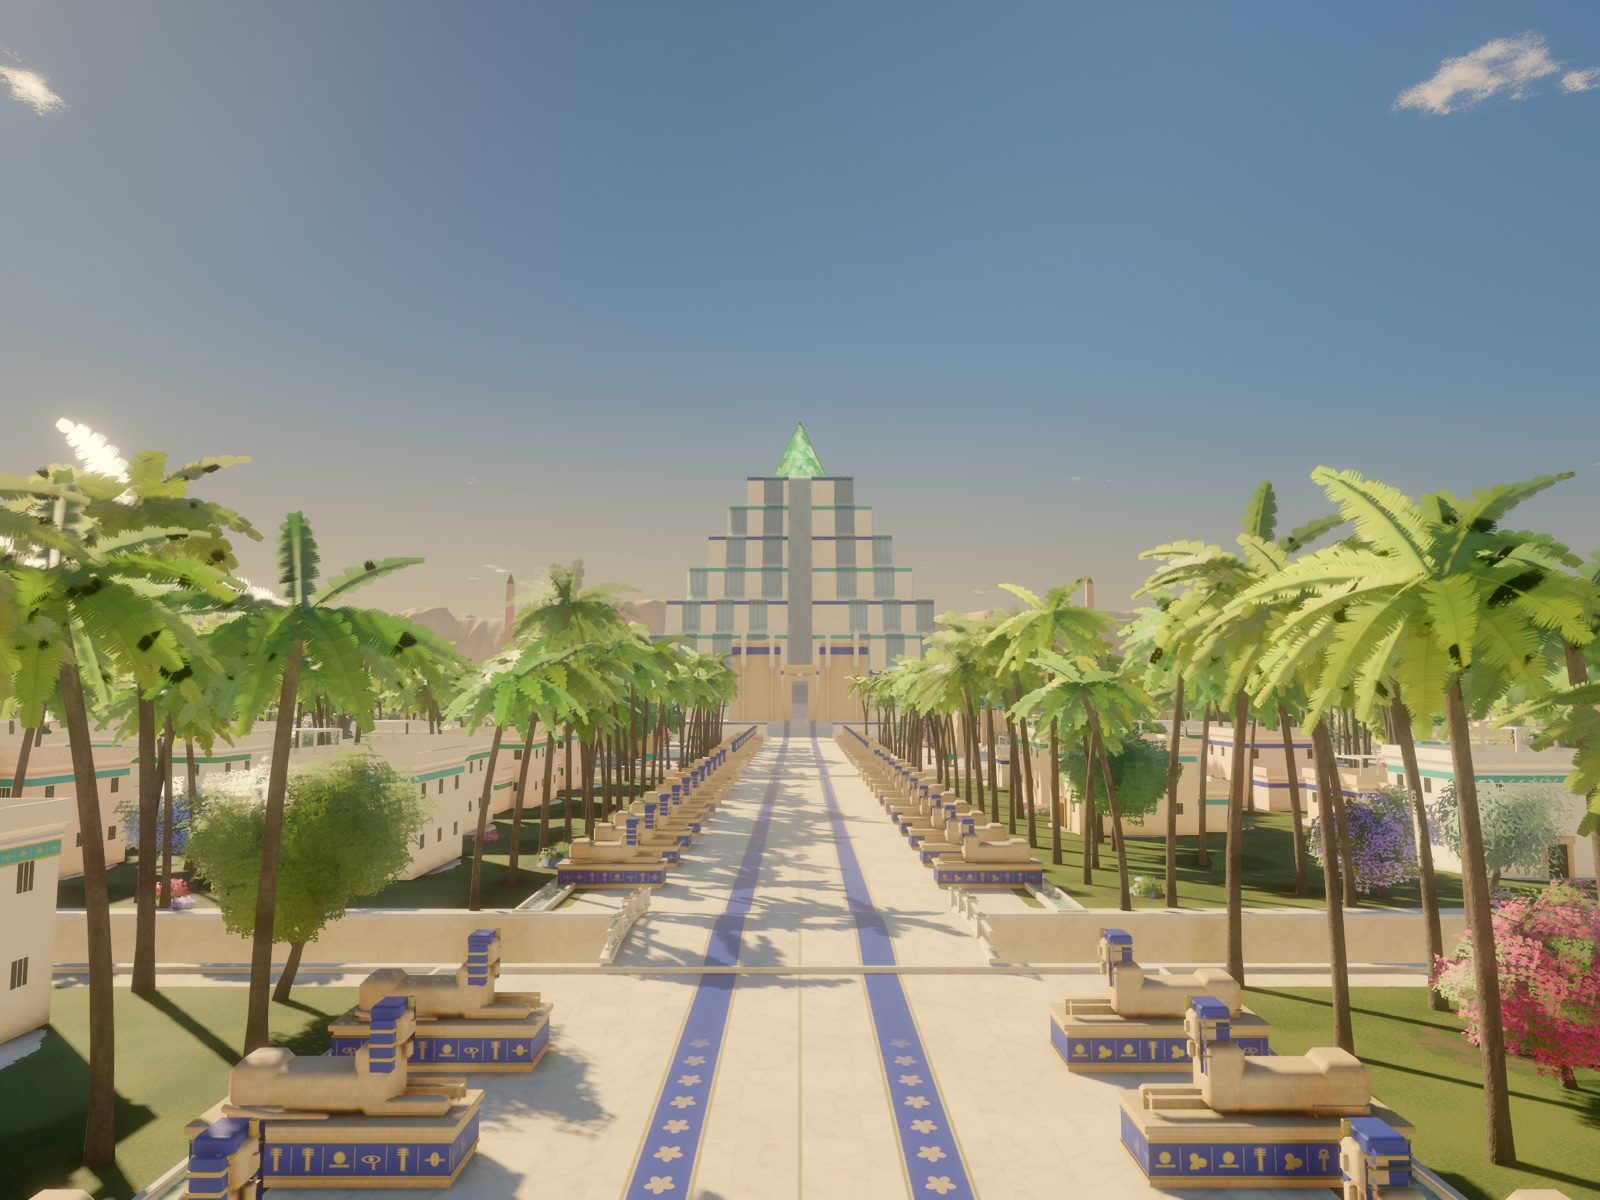
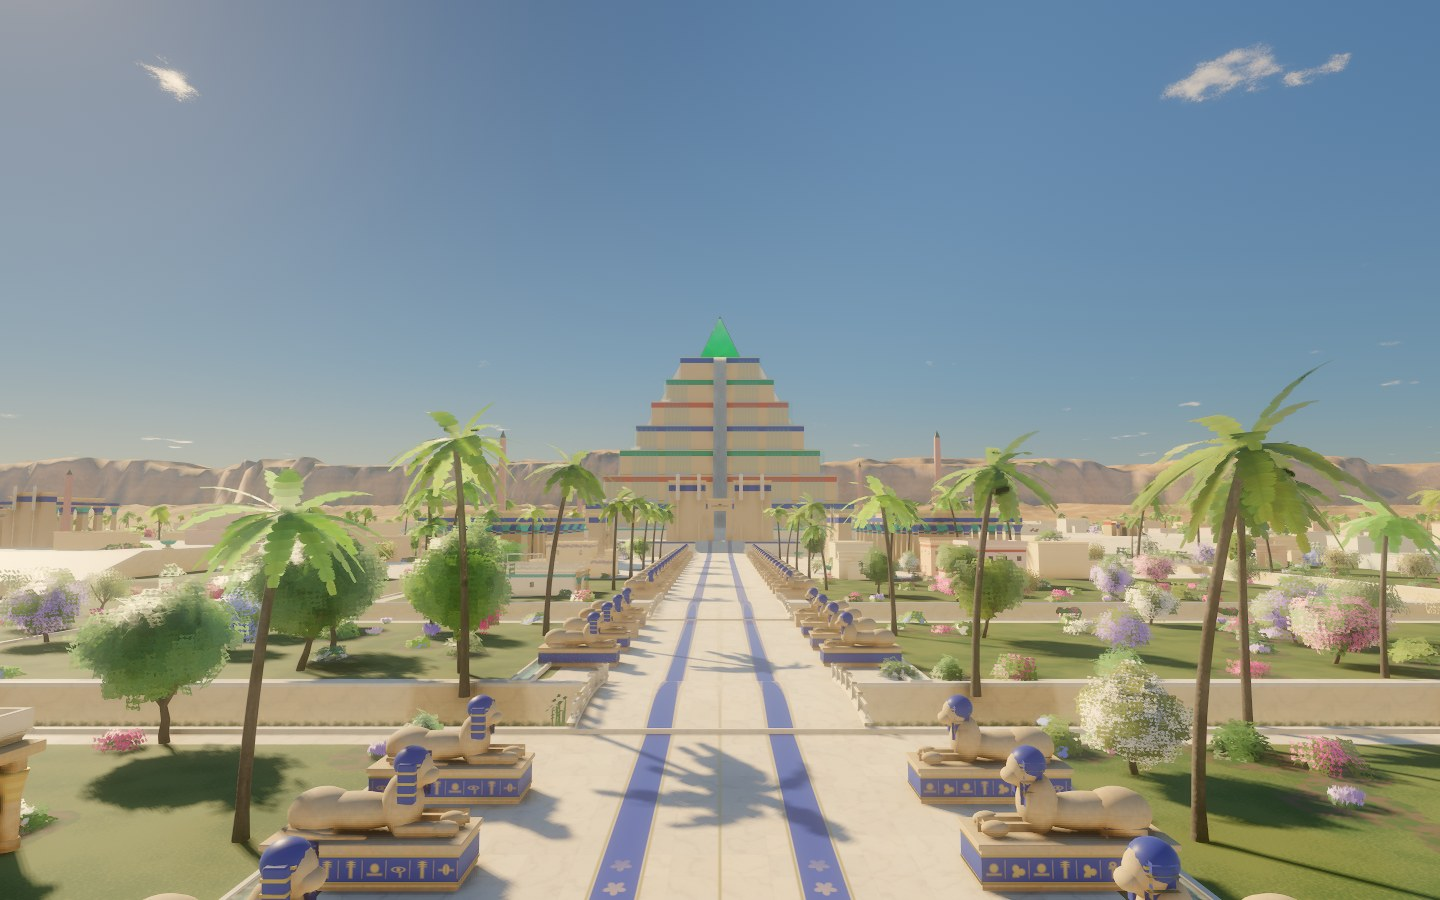
Documente l’itération 2 et ses validations visuelles
Conserve les six vues, les comparaisons temporelles et les mesures sur M1. Rend explicites le pic isolé de 41,5 ms et les limites visuelles relevées par le critique indépendant.

Agent: Codex

diff --git a/README.md b/README.md
@@ -16,7 +16,34 @@ Pierre dorée, pierres précieuses et eau vert-jade qui ruisselle de partout, de
 
 En ligne : **https://daamhaam.github.io/hapikara/** — ou ouvrir `index.html` dans Chrome ou Edge (WebGPU). Entrée pour entrer, souris pour regarder, `W` `A` `S` `D` pour voler, `Q` / `E` pour descendre et monter, `Maj` pour accélérer, `1` à `6` pour les points de vue, `Échap` pour le menu (niveau de détail). Sur écran tactile : un doigt pour avancer et tourner.
 
-> 🚧 Première version : la ville, l'eau, la pyramide et la végétation sont en place ; les détails et le réalisme s'affinent.
+> 🚧 Itération 2 — v0.2.0 : canaux segmentés, lagunes et îlot, quartiers en terrasses, temples et villas variés, palmiers beaucoup moins nombreux en ville. Environ 60 i/s sont mesurées sur le Mac M1 ; les pics isolés et la cible photoréaliste restent à améliorer.
+
+## Itération 2 — livraison du 22 novembre 2026
+
+Les canaux forment désormais des coudes et des redans, avec des tronçons interrompus, deux lagunes et un îlot. Quatre quartiers montent à 16 ou 22 m, avec des esplanades, des escaliers et trois ensembles de temples. La majeure partie de l'eau conserve sa hauteur et sa matière ; les biefs hauts, gargouilles de lion et vasques débordent vers le réseau bas. Une cascade relie la falaise à l'oasis.
+
+Vingt familles de villas proposent un à trois niveaux, des ailes en L ou en U, des cours, portiques, jarres et terrasses. Des greniers ronds et des chapelles complètent les quartiers. La cité ne conserve que **132 palmiers**, contre 5 058 hors les murs ; ses jardins privilégient les autres arbres et les massifs bas. La pyramide devient dorée, avec quatre escaliers, des frises lapis/cornaline/malachite et deux kiosques arrière. La réfraction du pyramidion utilise sa géométrie carrée réelle ; le halo rose et les émissions héritées du cristal d'Atlantis sont supprimés.
+
+![Le pyramidion dégagé](.github/screenshots/pyramidion.jpg)
+
+![Le Nil face au soleil depuis le débarcadère oriental](.github/screenshots/quai.jpg)
+
+### Vérifications
+
+- Géométrie et collisions : 41 607 points du plan, 166 surfaces réellement maillées et 33 générateurs/variantes vérifiés ; biefs, terrasses, escaliers et ponts concordent.
+- Survol : vitesse maximale **67,5 m/s**, lacet maximal **39,7°/s**, marge minimale **1,2 m** au-dessus du sol ou de l'eau (hors bâtiments, selon `__path()`).
+- WebGPU matériel : **Apple / Metal 3**, Chrome natif, 1440 × 900. Économiseur d'énergie désactivé temporairement avec autorisation, puis rétabli. Les relevés à 30 i/s avec cet économiseur ne sont pas des mesures de capacité du rendu.
+- Medium, survol de 60 s sans lecture GPU pendant les images : **60,0 i/s**, image moyenne **16,67 ms**, p99 **18,00 ms**, maximum **41,50 ms**. Le critère strict « aucune image au-delà de 33 ms » n'est donc **pas validé de manière reproductible**, malgré d'autres essais entre 23 et 26 ms au maximum. Origine du pic isolé non établie ; aucun blocage principal de plus de 50 ms détecté. [Rapport final](.github/screenshots/review/medium.json).
+- Avec les chronomètres GPU actifs : **11,32 ms GPU** en moyenne, p99 **15,99 ms**, maximum **17,37 ms** ; image moyenne 16,67 ms, p99 17,90 ms, maximum 34,80 ms. Le [rapport instrumenté](.github/screenshots/review/medium-with-timings.json) est conservé séparément. Les temps par vue sont des relevés de captures, pas des moyennes sur 60 s. High et Low : [mesures High](.github/screenshots/review/high.json), [mesures Low](.github/screenshots/review/low.json). Ces contrôles sur le Mac ne remplacent pas un test sur iPhone 17 Pro.
+- Stabilité : `__flicker()` exécuté dans les trois niveaux. Sur une vue proche, ancienne/nouvelle version des palmes à scène et lumière identiques : variation verte moyenne **0,565 → 0,496**, pixels dépassant 6 niveaux **1,89 % → 1,54 %**, soit environ **19 % de moins**. C'est une réduction, pas une élimination du scintillement. [Contrôle avec les anciennes palmes](.github/screenshots/review/palm-control.json). Les [paires consécutives](.github/screenshots/review/) complètent les mesures ; elles ne prouvent pas l'absence totale de scintillement.
+
+### Critique indépendante et limites connues
+
+**La cible AAA de la bible artistique n'est pas validée.** Après trois passes, le critique confirme une meilleure lisibilité du plan, des monuments, des canaux et du soleil de P6, une palette moins jaune et davantage de variété. Il maintient un défaut critique d'aspect maquette : volumes simples, grandes parois uniformes, jardins encore trop proches d'un lotissement.
+
+Défauts majeurs restants : palmes en rubans crantés et arbres secondaires schématiques ; émeraude trop uniforme malgré les intersections corrigées et les plans internes ; nappes d'eau encore trop proches de voiles ; matériaux précieux insuffisamment distincts. Les tentatives ont porté sur les variantes de volumes et leur implantation, les massifs et treilles, la palette et la brume, la géométrie/réfraction/inclusions du cristal, ainsi que les raccords, la transparence et l'écume des chutes. Le microdétail botanique et la matérialité demandent encore une reprise dédiée ; aucune validation visuelle artificielle n'est annoncée.
+
+La dernière correction de l'oasis supprime la ligne dans le ciel et les palmiers suspendus ; la cascade est identifiable du sommet au bassin, mais reste trop rectangulaire. Le [rapport structuré du critique](.github/screenshots/review/critique.json) conserve ces réserves. Le chemin hydraulique complet du sommet au Nil n'est pas encore lisible partout.
 
 ## Démarche
 
@@ -34,6 +61,8 @@ cd source
 npm install
 npm run build
 ```
+
+Contrôles CPU et livrable : `cd source && npm run check:plan && npm run check:bundle`. Le fichier minifié autonome pèse **94 482 octets** (80 628 octets gzip). Pour reproduire les captures et le benchmark, lancer `python3 source/tools/qa-server.py` à la racine, puis ouvrir dans Chrome `http://localhost:8137/dev.html?auto&lv=1&w=1440&h=900&qa=release-medium&bench&nots` après `npm run build:dev`. Les captures de développement et les outils de mesure ne sont pas inclus dans `index.html`.
 
 ## Licence
 
